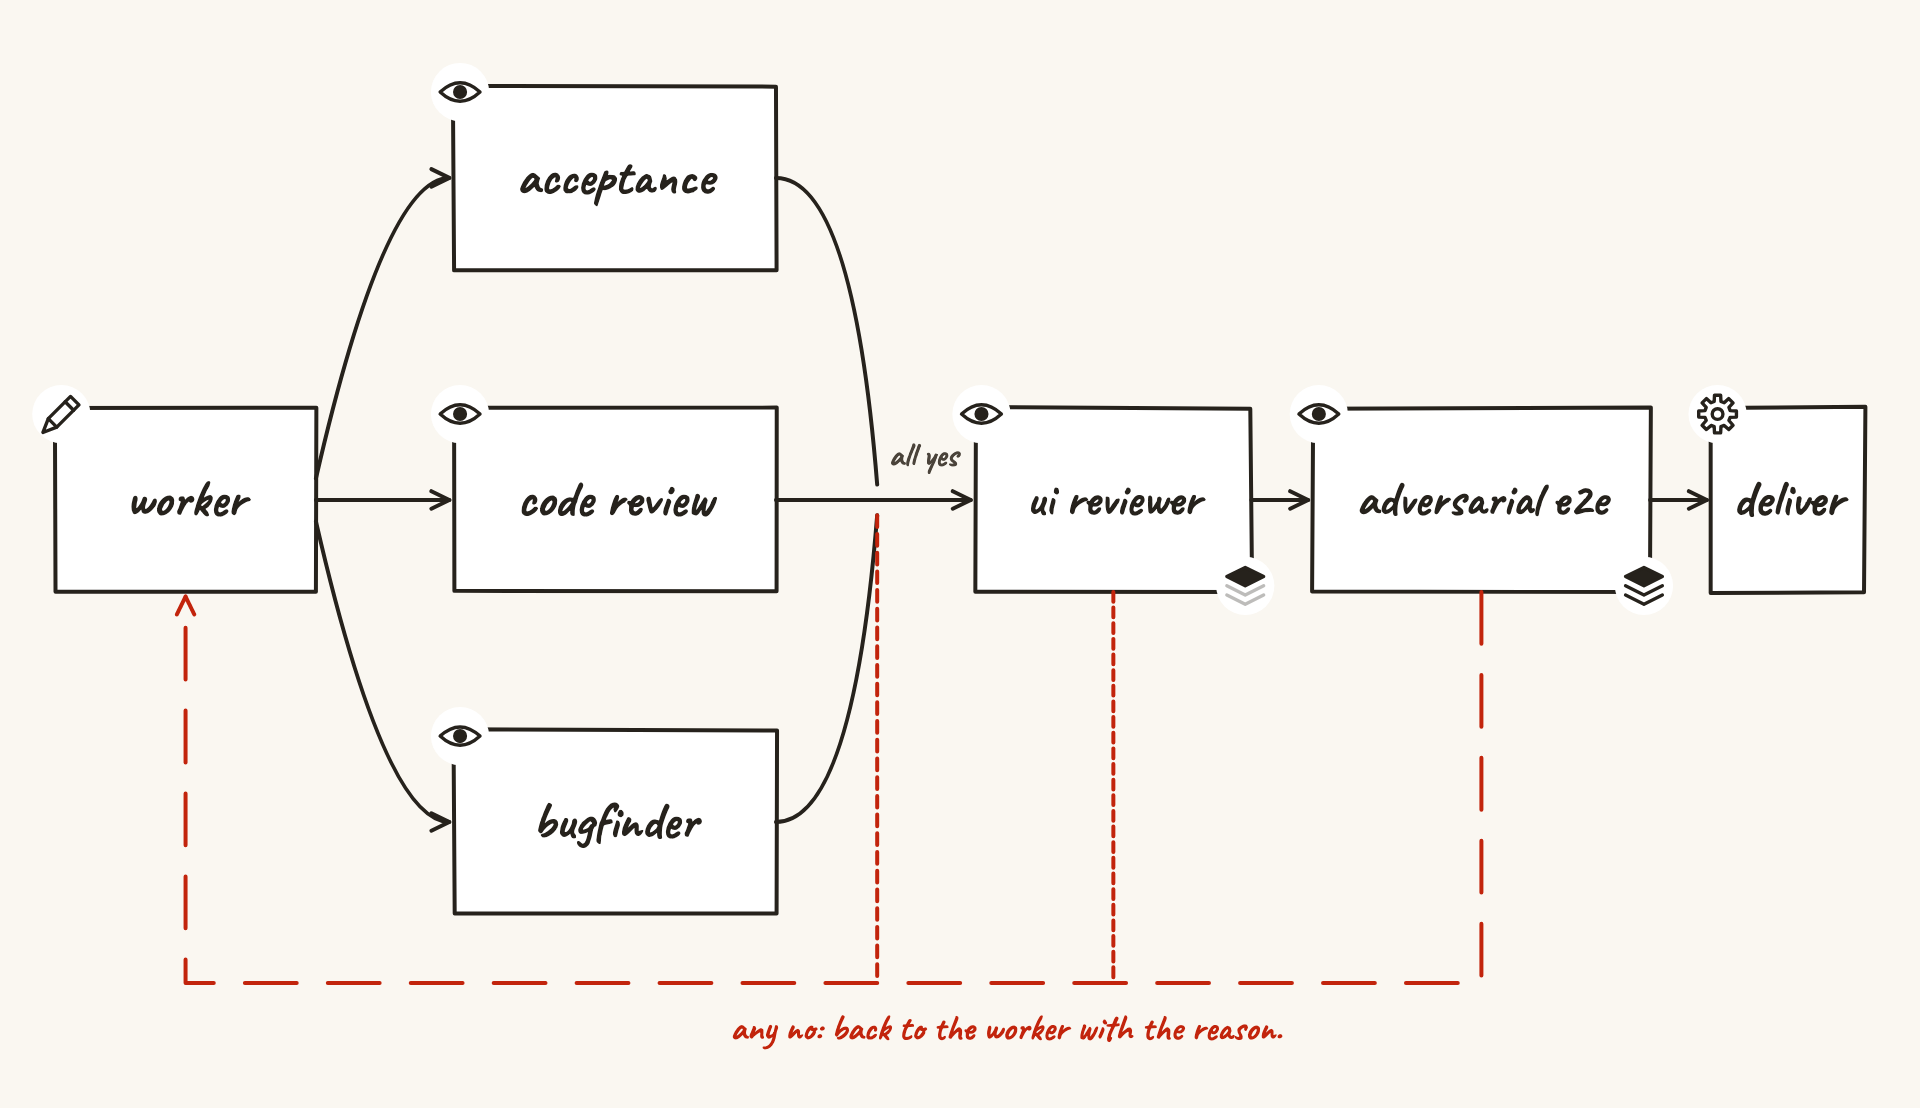
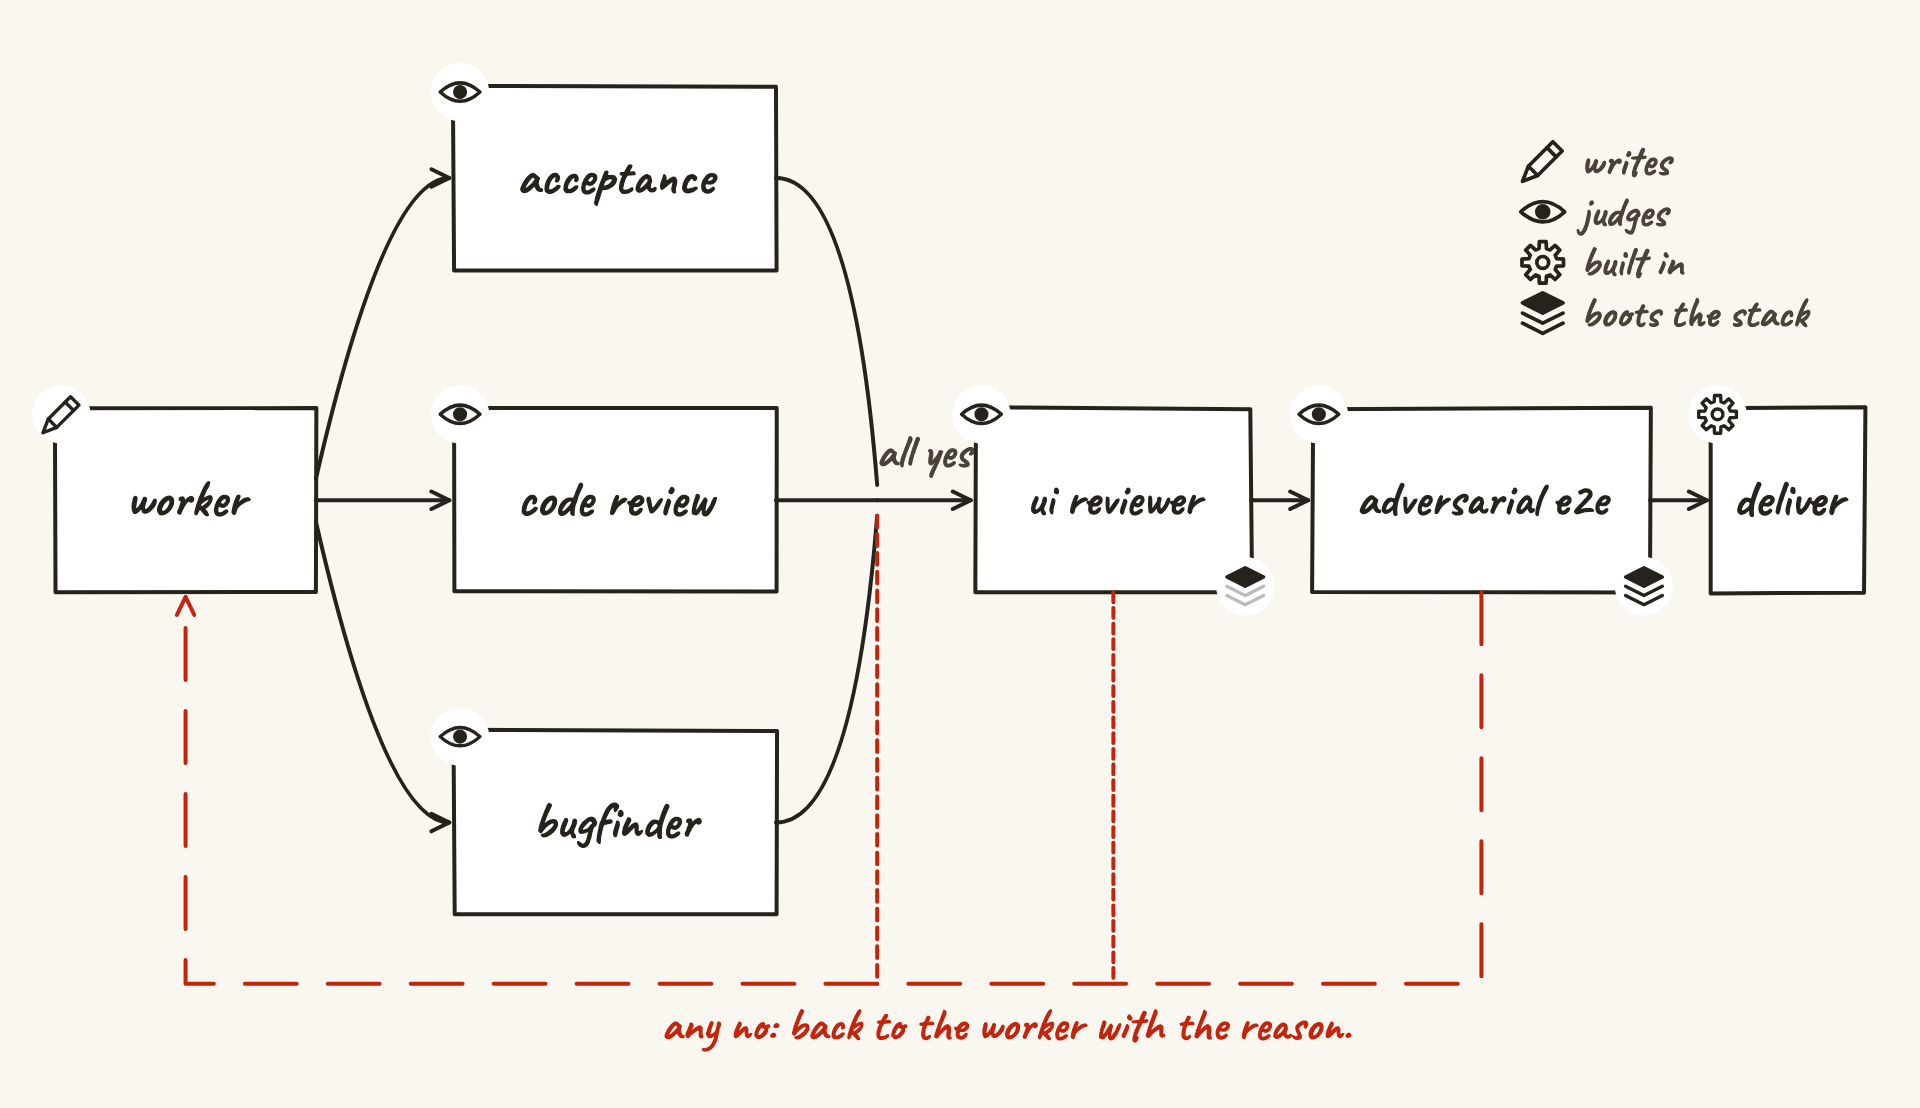
docs(readme): add the key to the feature graph and render it at 50 fps
The README's feature graph was frozen on 2026-10-19, before zeroshot.sh
added the key (writes, judges, built in, boots the stack) and enlarged
the "all yes" and repair labels. Refresh the desktop source from the
live page, re-export the reduced-motion still, and render both GIFs at
50 fps instead of 15 so the animation no longer stutters.

diff --git a/docs/brand/README.md b/docs/brand/README.md
@@ -196,7 +196,9 @@ recordings or built-in templates. The README links back to the interactive examp
 
 `docs/assets/product-graph-feature-{wide,mobile}.gif` preserves the feature graph's 16-second
 animation: review rejection, repair, end-to-end rejection, repair, then delivery. The exports
-have 240 frames at 15 fps and loop continuously. Desktop is 1280px wide; mobile is 780px wide.
+have 800 frames at 50 fps and loop continuously. Desktop is 1280px wide; mobile is 780px wide.
+The desktop export includes the page's key (writes, judges, built in, boots the stack); the
+page's mobile layout has no key.
 The risk-routing graph is static on the source page and remains a PNG in the README.
 
 The four `product-graph-{feature,danger}-{wide,mobile}.png` files are static exports. The feature
